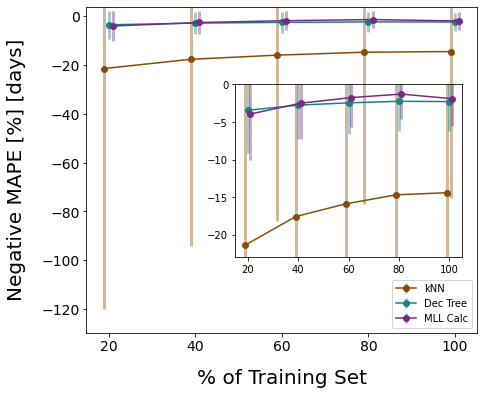
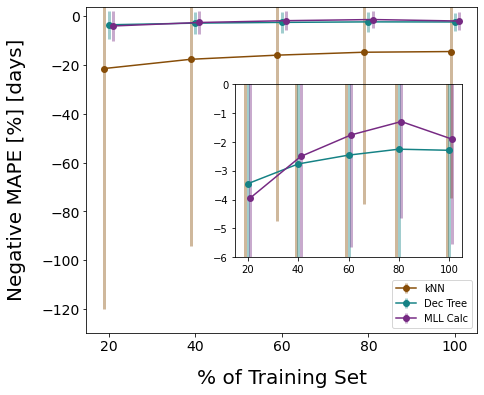
finished updates from adding new/different figures. first brain dumpy draft of ch 3 is done

diff --git a/document/chapters/exp1/eval_subs.tex b/document/chapters/exp1/eval_subs.tex
@@ -4,12 +4,12 @@
 Although a key takeaway from Figure \ref{fig:randerr} is that the \gls{MLL}
 calculations are the most robust to introduced error in the training set
 features for all four prediction categories, there is another aspect of the
-algorithm performance not shown in those plots: generalization. \Gls{MLL}
+algorithm performance not explicitly shown in those plots: generalization.
+\Gls{MLL} does not generalize to unseen data; it provides predictions based on
+finding the closest training set entry to the test sample.  It (usually)
 outperforms the scikit-learn methods in part because the training set is so
-large. This is because it does not generalize to unseen data; it provides
-predictions based on finding the closest training set entry to the test sample.
-This is also true for the \textit{k}-nearest neighbor implementations where
-$k=1$ (burnup and cooling time, as seen in Table \ref{tbl:exp1hypparam}).
+large. This is also true for the \textit{k}-nearest neighbor implementations
+where $k=1$ (burnup and cooling time, as seen in Table \ref{tbl:exp1hypparam}).
 
 One way to show that an algorithm is generalizing well in comparison to others
 is to view the shape of its learning curve (introduced in Section
@@ -20,13 +20,13 @@ demonstrated in Figure \ref{fig:learns}. As in Figure \ref{fig:randerr}, the
 higher is better performance; also, the error bars reflect a 99\% confidence
 interval for Figure \ref{fig:learnsA}, and one standard deviation of the
 average percentage errors for Figures \ref{fig:learnsB}--\ref{fig:learnsD}.
-These learning curves represent the 1\% random error case in Figure
-\ref{fig:randerr}, so the \gls{MLL} learning curve will be below the
-scikit-learn algorithms for the reactor type, burnup, and enrichment
-predictions, and the \textit{k}-nearest neighbor learning curve will be below
-the \gls{MLL} and decision tree curves for time since irradiation.  Thus, the
-scores/errors in Figure \ref{fig:randerr} are the data points at the 100\%
-training set level in Figure \ref{fig:learns}.  
+These learning curves represent the 5\% random error case in Figure
+\ref{fig:randerr}, so the scores/errors in Figure \ref{fig:randerr} are the
+data points at the 100\% training set level in Figure \ref{fig:learns}.
+Therefore, the leftmost data in Figure \ref{fig:learns} will show the \gls{MLL}
+point being slightly above the scikit-learn points for the reactor type,
+burnup, and enrichment predictions, and the \textit{k}-nearest neighbor point
+is below the \gls{MLL} and decision trees points for time since irradiation.  
 
 \begin{figure}[!htb]
   \centering
@@ -64,29 +64,155 @@ training set level in Figure \ref{fig:learns}.
   \caption{Learning curves for reactor type, burnup, enrichment, and time 
            since irradiation with respect to increasing fraction of the 
            training set, for 5\% training set random error.}
+  \todo[inline]{inset background needs to be opaque, since the knn error bars are seen in it}
   \label{fig:learns}
 \end{figure}
 
 Figure \ref{fig:learnsA} shows that the balanced accuracy score of reactor type
 classification for the \gls{MLL} calculations decreases more at lower training
-set size than for the scikit-learn algorithms.  This pattern holds true for the
-burnup \gls{MAPE} in Figure \ref{fig:learnsB} and the enrichment \gls{MAPE} in
-Figure \ref{fig:learnsC}, although the standard deviation is large enough for
-the \gls{MLL} values that the two sets of scikit-learn values are encompassed
-by that range. Lastly, Figure \ref{fig:learnsD} has the error bars cropped out
-for the \textit{k}-nearest neighbors curve in order to better see the \gls{MLL}
-and decision tree curves. The latter two follow a nearly equivalent path, and
-the decrease in performance for \textit{k}-nearest neighbors happens mostly in
-parallel with them. As with the other regression cases, it is difficult to draw
-a conclusion about the trend. While the 20\% and 40\% data points do seem to be
-diverging faster, the error bars are too large to state anything definitive.
+set size than for the scikit-learn algorithms. Here, the curve crosses below
+the \textit{k}-nearest neighbors curve at the lowest training set size of 20\%.
+For the burnup \gls{MAPE} in Figure \ref{fig:learnsB} and the enrichment
+\gls{MAPE} in Figure \ref{fig:learnsC}, the \gls{MLL} curve crosses below both
+of the scikit-learn algorithm curves. This happens between 20\% and 40\%
+training set size for burnup, and between 40\% and 60\% training set size for
+enrichment.  Lastly, Figure \ref{fig:learnsD} shows a different arrangement,
+which is to be expected from the results shown in Figure \ref{fig:randerrD},
+where the \textit{k}-nearest neighbors performance is significantly worse than
+the other two algorithms. Because the \textit{k}-nearest neighbors curve and
+error bars are so large, there is an inset showing a closeup of the other two
+curves above -6\%.  The decision trees and \gls{MLL} calculations curves now
+appear to follow the trend in the burnup and enrichment cases, and the
+\gls{MLL} curve crosses under the decision trees curve between 20\% and 40\%
+training set size.  \todo[inline]{Shoudl it be noted that the standard
+deviation of the relative errors is large enough for all three curves that the
+trend cannot be taken as proof?}
+
+There is a dependence on training set size for all three algorithms in Figure
+\ref{fig:learns}. For the most part, the \textit{k}-nearest neighbors and
+decision trees curves follow an approximately parallel path, whereas the
+\gls{MLL} method shows an increased rate of degradation at low training set
+sizes. Since this training set is large enough, i.e., the prediction parameters
+were included in small enough steps, that \gls{MLL} has consistent performance
+at the larger sizes, there is not a concern in this work about its inability to
+generalize. It must be noted, however, that the \gls{MLL} approach requires a
+fine grid of simulation parameters in a training database to perform better
+than the simple scikit-learn algorithms.
 
 \subsubsection{Reactor Type Prior Knowledge}
 
-There is similar work being done \todo{get tamu citation} to this that focuses
-on these prediction categories but in a serial manner, i.e., first determining
-the reactor type before moving forward with other predictions. 
-\todo[inline]{Finish intro here.}
+There is similar work being done \todo{get tamu citation} to this work that
+focuses on similar prediction categories but in a serial manner, i.e., first
+determining the reactor type before moving forward with other predictions.
+This makes a lot of sense intuitively, that knowing the reactor type could
+allow a more accurate reporting of the other reactor operation parameters,
+rather than trying to predict them while blind to the reactor type, which is
+what this work does. Therefore, the change in regression performance from the
+reactor type-blind predictions to having prior knowledge of the reactor type is
+discussed.
+
+The workflow was repeated for the three regression cases where they were
+trained on reactor type-filtered training sets. A 5\% random error was applied
+to these training sets, and the 5\% random error full training set was used as
+comparison. The errors for each algorithm (\textit{k}-nearest neighbors,
+decision trees, and \gls{MLL} calculations) were tallied for each regression
+category (burnup, enrichment, and time since irradiation) and within that, for
+each reactor type (\gls{PWR}, \gls{BWR}, \gls{PHWR}). Two sets of error were
+tracked: whether the reactor type was \textit{known} or \textit{unknown} prior
+to prediction.
+
+Table \ref{tbl:knownrxtr} shows the \gls{MAPE}s for each regression category
+and within that, for each reactor type (\gls{PWR}, \gls{BWR}, \gls{PHWR}).  The
+columns are separated first by the algorithms and second by whether the reactor
+type was known or unknown prior to prediction, denoted as \textit{K} and
+\textit{U}, respectively. Most of these relative errors are quite low, and
+around or under 2\%.  So, e.g., despite burnup from \gls{PHWR}s improving, it
+was by 0.61\%, a precision of which may not be of concern. Still, these
+performance differences can be looked at in more detail.  \todo[inline]{5\%
+error case is shown but it follows a similar trend to 1\% rand err case.
+Haven't done calcs for higher errors, but could.}
+
+\begin{table}[!htb]
+  \centering
+  \begin{tabular}{@{}llllllll@{}}
+    \toprule
+    &  &  \multicolumn{2}{c}{\textit{k}NN} 
+    &     \multicolumn{2}{c}{Dec Trees} 
+    &     \multicolumn{2}{c}{MLL Calcs} \\ 
+    \toprule
+    \begin{tabular}[c]{@{}l@{}}Prediction\\ Parameter\end{tabular} &
+    \begin{tabular}[c]{@{}l@{}}Reactor \\ Type\end{tabular} &
+    K & U &  K & U & K & U \\ \midrule
+    \multirow{3}{*}{\begin{tabular}[c]{@{}l@{}}Burnup \\ \% {[MWd/MTU]} \end{tabular}}
+     & PWR  & 0.60  & 0.66  & 0.54 & 0.75 & 0.24 & 0.25 \\
+     & BWR  & 0.88  & 0.90  & 0.60 & 0.66 & 0.40 & 0.40 \\
+     & PHWR & 0.66  & 1.27  & 0.14 & 0.54 & 0.28 & 0.28 \\ \hline
+    \multirow{3}{*}{\begin{tabular}[c]{@{}l@{}}Enrichment \\ \% {[\% U235]} \end{tabular}}
+     & PWR  & 0.85  & 0.99  & 0.36 & 0.48 & 0.26 & 0.29 \\
+     & BWR  & 1.14  & 1.16  & 0.51 & 0.54 & 0.45 & 0.46 \\
+     & PHWR & 0.00  & 0.00  & 0.00 & 0.02 & 0.00 & 0.00 \\ \hline
+    \multirow{3}{*}{\begin{tabular}[c]{@{}l@{}}Time Since \\ Irradiation \\ \% {[days]} \end{tabular}}
+     & PWR  & 11.44 & 10.48 & 2.35 & 2.19 & 1.55 & 1.46 \\
+     & BWR  & 15.39 & 15.48 & 2.27 & 2.28 & 2.06 & 2.05 \\
+     & PHWR & 19.32 & 34.41 & 4.96 & 4.52 & 2.30 & 2.30 \\ \bottomrule
+  \end{tabular}
+  \caption{\gls{MAPE}s for the three prediction cases for each algorithm at 5\% 
+           training set error. \textit{K} refers to \textit{known} reactor 
+           type and \textit{U} refers to \textit{unknown} reactor type prior 
+           to regression.}
+  \label{tbl:knownrxtr}
+\end{table}
+
+To better see these performance differences, the percent change in prediction
+\gls{MAE} for each algorithm and reactor type between the reactor type being
+known versus unknown prior to prediction was calculated as: $100 *
+\frac{MAE_{unknown} - MAE_{known}}{MAE_{unknown}}$.  This was chosen to be
+relative to the unknown error since that is the benchmark in this case.  Figure
+\ref{fig:knownrxtr} is three heatmaps that show this percent change for each
+prediction category, algorithm, and reactor type.  This value is reflected by a
+diverging color bar as well as a positive or negative percentage in each
+square.  The positive percentages indicate the error decreased/improved from
+the unknown reactor type case to the known reactor type case.  The negative
+percentages indicate the error increased/worsened from the unknown to the known
+case. 
+
+\begin{figure}[!htb]
+  \centering
+  \includegraphics[width=\textwidth]{./chapters/exp1/rxtr-type_known-unknown_diff_err05.png}
+  \caption{Heatmaps for the three regression cases showing the percent 
+           difference in prediction error between a known reactor type 
+           and unknown reactor type using a 5\% training set error.}
+  \label{fig:knownrxtr}
+\end{figure}
+
+For burnup prediction, most differences are within $\pm10\%$ except for three
+scenarios.  The decision tree algorithm has improved burnup prediction for
+\gls{PWR}s by 22.0\% and for \gls{PHWR}s by 71.1\% given a known reactor type.
+The \textit{k}-nearest neighbors algorithm has 49.5\% improved burnup
+prediction for the \gls{PHWR}. For \gls{U235} enrichment, the \gls{PWR}
+predictions improve by approximately 18\% for the scikit-learn algorithms.
+Even though the value is within $\pm10\%$, this is the only scenario where
+there is an appreciable difference in \gls{MLL} performance. The decision tree
+enrichment prediction of \gls{PHWR}s also has a sizeable improvement of
+100.0\%.  The time since irradiation predictions for the most part do not show
+improvement outside of $\pm10\%$. Of note is some volatile behavior for the
+\gls{PHWR} case with the scikit-learn algorithms.  While \textit{k}-nearest
+neighbors improves by 29.8\%, the decision tree predictions were worse by
+12.5\%.  Since the main concern here is showing how prediction performance
+improves with prior reactor type knowledge, this reduction in performance is
+odd but not worthy of further investigation.
+
+The improvements in the \gls{PHWR} predictions are not surprising since the
+generalization of the scikit-learn algorithms could lead to the unique
+\gls{PHWR} cases being ignored, since they are after all only 1.5\% of the
+training set.  Another interesting result is that the \gls{BWR} predictions
+experience no large changes, which makes sense given that they comprise 72\% of
+the training set. Also, the \gls{MLL} predictions are approximately the same,
+which is expected because this algorithm does not generalize, and the
+prediction comes as a set of labels and is therefore already linked to the
+reactor type. Overall, it is important to be aware that the regression labels
+coming from a \gls{PHWR} will be unlikely to be optimal results (except for
+those from \gls{MLL} calculations).
 
 %\begin{table}[!htb]
 %  \centering
@@ -127,88 +253,4 @@ the reactor type before moving forward with other predictions.
 %           and unknown reactor type.}
 %  \label{fig:knownrxtr}
 %\end{figure}
-
-\begin{table}[!htb]
-  \centering
-  \begin{tabular}{@{}llllllll@{}}
-    \toprule
-    &  &  \multicolumn{2}{c}{\textit{k}NN} 
-    &     \multicolumn{2}{c}{Dec Trees} 
-    &     \multicolumn{2}{c}{MLL Calcs} \\ 
-    \toprule
-    \begin{tabular}[c]{@{}l@{}}Prediction\\ Parameter\end{tabular} &
-    \begin{tabular}[c]{@{}l@{}}Reactor \\ Type\end{tabular} &
-    K & U &  K & U & K & U \\ \midrule
-    \multirow{3}{*}{\begin{tabular}[c]{@{}l@{}}Burnup \\ \% {[MWd/MTU]} \end{tabular}}
-     & PWR  & 0.60  & 0.66  & 0.54 & 0.75 & 0.24 & 0.25 \\
-     & BWR  & 0.88  & 0.90  & 0.60 & 0.66 & 0.40 & 0.40 \\
-     & PHWR & 0.66  & 1.27  & 0.14 & 0.54 & 0.28 & 0.28 \\ \hline
-    \multirow{3}{*}{\begin{tabular}[c]{@{}l@{}}Enrichment \\ \% {[\% U235]} \end{tabular}}
-     & PWR  & 0.85  & 0.99  & 0.36 & 0.48 & 0.26 & 0.29 \\
-     & BWR  & 1.14  & 1.16  & 0.51 & 0.54 & 0.45 & 0.46 \\
-     & PHWR & 0.00  & 0.00  & 0.00 & 0.02 & 0.00 & 0.00 \\ \hline
-    \multirow{3}{*}{\begin{tabular}[c]{@{}l@{}}Time Since \\ Irradiation \\ \% {[days]} \end{tabular}}
-     & PWR  & 11.44 & 10.48 & 2.35 & 2.19 & 1.55 & 1.46 \\
-     & BWR  & 15.39 & 15.48 & 2.27 & 2.28 & 2.06 & 2.05 \\
-     & PHWR & 19.32 & 34.41 & 4.96 & 4.52 & 2.30 & 2.30 \\ \bottomrule
-  \end{tabular}
-  \caption{\gls{MAPE}s for the three prediction cases for each algorithm at 5\% 
-           training set error. \textit{K} refers to \textit{known} reactor 
-           type and \textit{U} refers to \textit{unknown} reactor type prior 
-           to regression.}
-  \label{tbl:knownrxtr}
-\end{table}
-
-\begin{figure}[!htb]
-  \centering
-  \includegraphics[width=\textwidth]{./chapters/exp1/rxtr-type_known-unknown_diff_err05.png}
-  \caption{Heatmaps for the three regression cases showing the percent 
-           difference in prediction error between a known reactor type 
-           and unknown reactor type using a 5\% training set error.}
-  \label{fig:knownrxtr}
-\end{figure}
-
-The workflow was repeated for the three regression cases where they were
-trained on reactor type-filtered training sets. A 1\% random error was applied
-to these training sets, and the 1\% random error full training set was used as
-comparison.  Figure \ref{fig:knownrxtr} is three heatmaps that show the percent
-difference in prediction \gls{MAE} for each algorithm and reactor type between
-the reactor type being known versus unknown prior to prediction. This is
-reflected by a diverging color bar as well as a positive or negative percentage
-in each square.  The positive percentages indicate the error decreased/improved
-from the unknown reactor type case to the known reactor type case.  The
-negative percentages indicate the error increased/worsened from the unknown to
-the known case. 
-
-
-For burnup prediction, most differences are within $\pm10\%$ except for three
-scenarios.  The decision tree algorithm has improved burnup prediction for
-\gls{PWR}s by almost 30\% and for \gls{PHWR}s by almost 200\% given a known
-reactor type.  The \textit{k}-nearest neighbors algorithm has 46\% improved
-burnup prediction for the \gls{PHWR}. For \gls{U235} enrichment, the \gls{PWR}
-predictions all improve by over 10\%, including for the \gls{MLL} algorithm.
-This is the only scenario where there is an appreciable difference in \gls{MLL}
-performance. The decision tree enrichment prediction of \gls{PHWR}s also has a
-sizeable improvement of 44\%.  The time since irradiation predictions for the
-most part do not show improvement outside of $\pm10\%$. Of note is some
-volatile behavior for the \gls{PHWR} case with the scikit-learn algorithms.
-While \textit{k}-nearest neighbors improves by 28\%, the decision tree
-predictions were worse by 17\%. Since the main concern here is showing how
-prediction performance improves with prior reactor type knowledge, this
-reduction in performance is odd but not worthy of investigation. \todo{check
-me}
-
-The improvements in the \gls{PHWR} predictions are not surprising since the
-generalization of the scikit-learn algorithms could lead to the unique
-\gls{PHWR} cases being ignored, since they are after all only 1.5\% of the
-training set.  Another interesting result is that the \gls{BWR} predictions
-experience no large changes, which makes sense given that they comprise 72\% of
-the training set. Also, the \gls{MLL} predictions are approximately the same,
-which is expected because this algorithm does not generalize, and the
-prediction comes as a set of labels and is therefore already linked to the
-reactor type.  The only confounding behavior is the performance decrease in the
-\gls{PHWR} enrichment prediction by the decision tree method.  Overall, it is
-important to be aware that the regression labels coming from a \gls{PHWR} will
-be unlikely to be optimal results (except for those from \gls{MLL}
-calculations).
 

diff --git a/document/chapters/exp1/sfcompo.tex b/document/chapters/exp1/sfcompo.tex
@@ -1,4 +1,13 @@
 
+\todo[inline]{1. all of my commentary on performance improvement for the
+sfcompo test set is outlined to go into the future work section. or should it
+go here?  2. also, there may be some useful information from the model
+generalization or rxtr type prior knowledge sections that could be useful here
+for more in depth discussion. 3. this ended up really motivating the use of
+relative error versus absolute (really, both) so it could maybe go first, then
+the random error results section could go second using the relative error
+plots?}
+
 The testing described in Section \ref{sec:randerr} describes the process of
 evaluating the methodology with test cases drawn from the training database.
 It is also helpful to test the methodology against real assays of \gls{SNF}.
@@ -425,4 +434,3 @@ of the scikit algorithms outperform \gls{MLL} calculations for the zero-nulls
 test set, since they tended to have lower errors using the imputed nulls test
 set. 
 
-\todo[inline]{all of my commentary on performance improvement is outlined to go into the future work section. or should it go here?}

diff --git a/document/chapters/exp1/evaluation.tex b/document/chapters/exp1/evaluation.tex
@@ -91,6 +91,7 @@ fractions.
            time since irradiation with respect to decreasing information
            quality in the form of uniform/random error applied to the nuclide 
            mass measurements in the training set.}
+  \todo[inline]{inset background needs to be opaque, since the knn error bars are seen in it}
   \label{fig:randerr}
 \end{figure}
 
